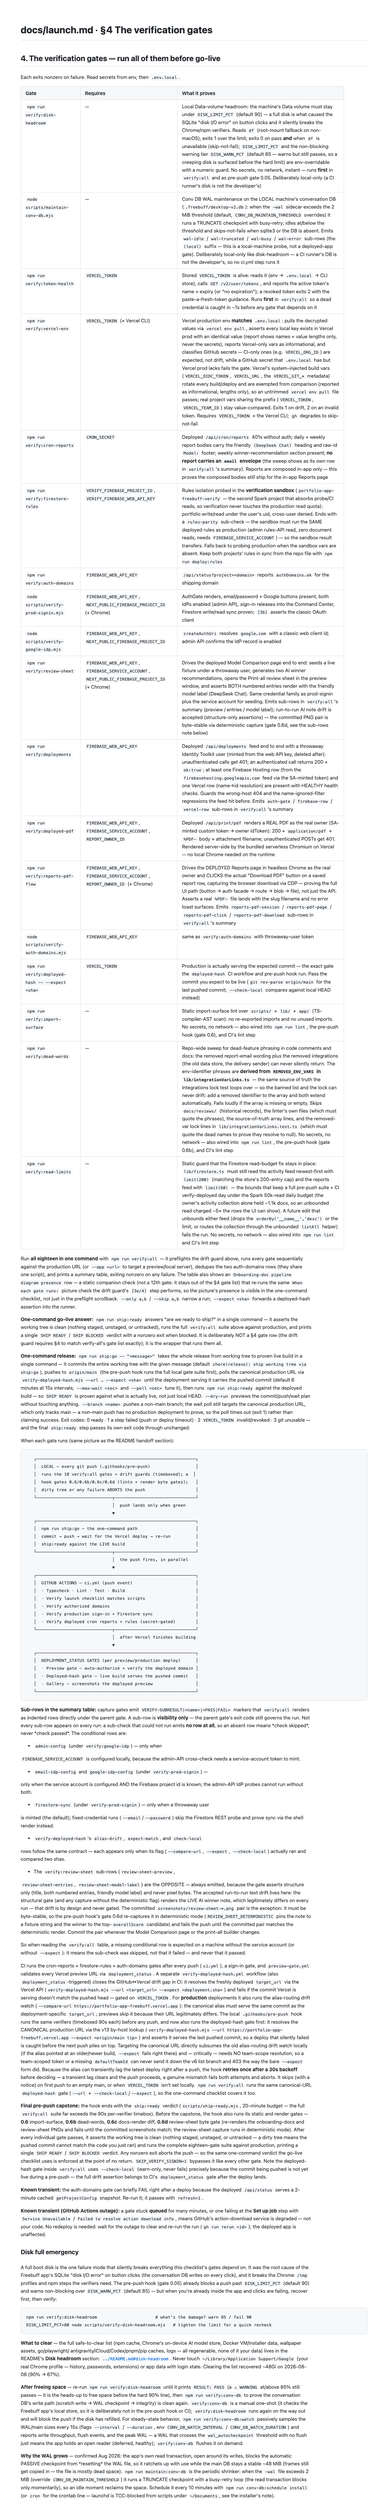
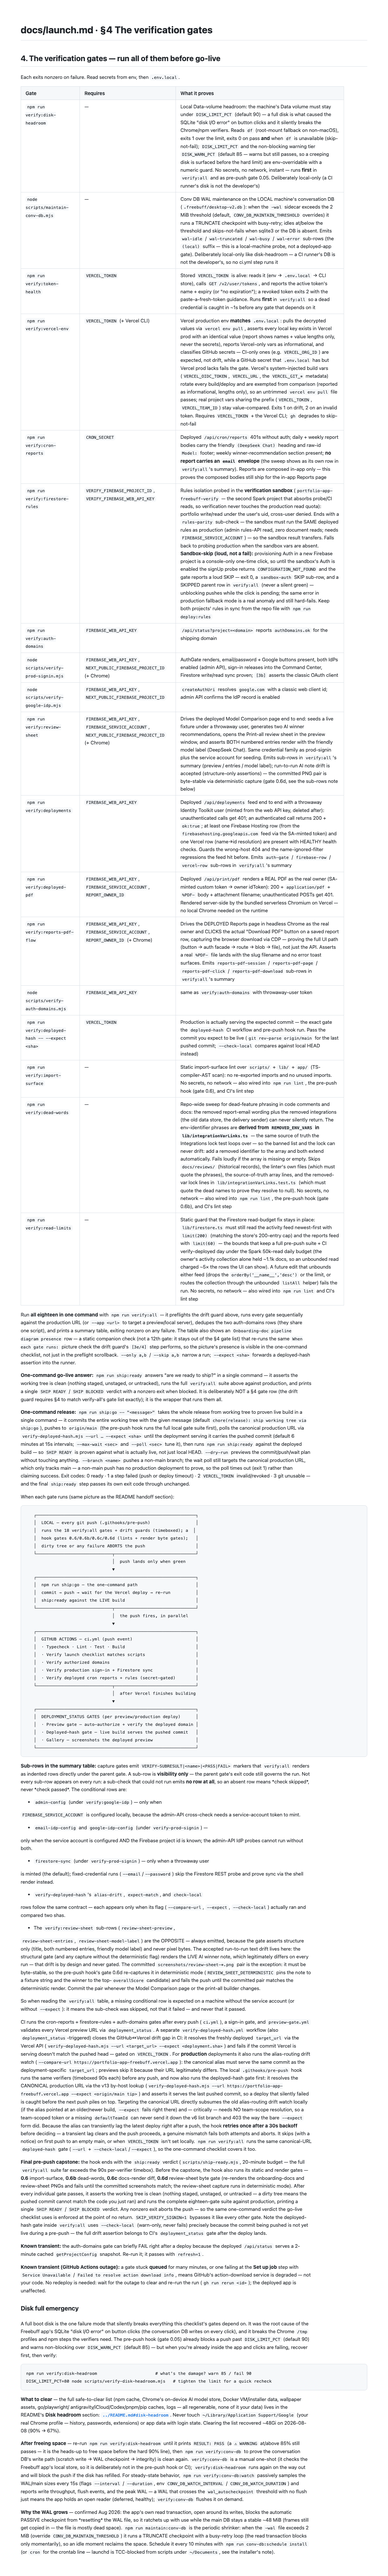
feat(verify): loud SKIP when the sandbox Auth is unprovisioned
verify-firestore-rules now reports a loud SKIP (exit 0, sandbox-auth
SKIP sub-marker, SKIPPED parent row in verify:all) when the sandbox
signUp probe returns CONFIGURATION_NOT_FOUND, since provisioning Auth
in a new Firebase project is a console-only one-time click that cannot
be scripted. The skip is gated on sandbox mode only — the same error
against production fallback still hard-fails. Extends the
VERIFY-SUBRESULT marker contract to accept SKIP, renders all-skipped
capture gates as SKIPPED (never a silent green), and locks the verdict
with a fetch-stubbed contract test asserting exit 0, zero Firestore
document calls on the skip path, and the production hard-fail.

Generated with Codebuff 🤖

diff --git a/scripts/verify-firestore-rules.test.ts b/scripts/verify-firestore-rules.test.ts
@@ -1,0 +1,102 @@
+import { spawnSync } from 'node:child_process';
+import { mkdtempSync, readFileSync, rmSync, writeFileSync } from 'node:fs';
+import { tmpdir } from 'node:os';
+import { join } from 'node:path';
+import { describe, expect, it } from 'vitest';
+
+// ── verify-firestore-rules · sandbox-auth SKIP verdict ──────────────────────
+// Provisioning Auth in a brand-new Firebase project is a console-only step
+// (the first click can't be scripted), so until that click lands the sandbox
+// signUp probe returns CONFIGURATION_NOT_FOUND. The gate must then report a
+// LOUD SKIP — exit 0, a SKIPPED parent row in verify:all, and a sandbox-auth
+// SKIP sub-marker — so an unprovisioned sandbox can never block every push
+// NOR masquerade as a green check. These tests spawn the real script with a
+// fetch stub (loaded via `node --import`, so it patches globalThis.fetch
+// before the gate's top-level await runs) and lock the verdict end to end:
+// the skip path exits 0, prints the loud SKIP lines, emits the marker, makes
+// zero Firestore document calls, and production-fallback mode STILL hard-fails
+// on the same error (production Auth is provisioned — an absence there is a
+// genuine regression).
+
+// The stub: answers every Identity Toolkit signUp with the sandbox's
+// unprovisioned error and records every URL it saw to FETCH_STUB_LOG, so the
+// tests can assert the skip path never touches Firestore documents. Anything
+// else the gate tries on the skip path is unexpected → 500 (the test would
+// fail loudly rather than silently pass).
+const STUB = `
+import { appendFileSync } from 'node:fs';
+const log = process.env.FETCH_STUB_LOG;
+globalThis.fetch = async (url) => {
+  const u = String(url);
+  if (log) { try { appendFileSync(log, u + '\\n'); } catch {} }
+  if (u.includes('identitytoolkit.googleapis.com/v1/accounts:signUp')) {
+    return { ok: false, status: 400, json: async () => ({ error: { code: 400, message: 'CONFIGURATION_NOT_FOUND' } }) };
+  }
+  return { ok: false, status: 500, json: async () => ({ error: { message: 'UNEXPECTED_FETCH' } }) };
+};
+`;
+
+const runGate = (overrides: Record<string, string>, opts?: { isolatedCwd?: boolean }) => {
+  const dir = mkdtempSync(join(tmpdir(), 'rules-skip-'));
+  const stub = join(dir, 'fetch-stub.mjs');
+  const log = join(dir, 'urls.log');
+  writeFileSync(stub, STUB);
+  // Start from the real env but guarantee sandbox mode is decided by the
+  // test's overrides alone — a dev shell exporting VERIFY_FIREBASE_* must not
+  // flip test 3 (production fallback) by accident.
+  const env = { ...process.env, FETCH_STUB_LOG: log };
+  delete env.VERIFY_FIREBASE_PROJECT_ID;
+  delete env.VERIFY_FIREBASE_WEB_API_KEY;
+  // isolatedCwd runs the gate from a temp dir with no .env.local, so the
+  // production-fallback test really is production mode (readLocalEnv resolves
+  // .env.local from cwd) rather than silently inheriting the real sandbox
+  // vars from the repo's .env.local.
+  const cwd = opts?.isolatedCwd ? dir : process.cwd();
+  const res = spawnSync('node', ['--import', stub, join(process.cwd(), 'scripts', 'verify-firestore-rules.mjs')], {
+    cwd,
+    env: { ...env, ...overrides },
+    encoding: 'utf8',
+    timeout: 60_000,
+  });
+  const urls = readFileSync(log, 'utf8').split('\n').filter(Boolean);
+  rmSync(dir, { recursive: true, force: true });
+  return { status: res.status, out: `${res.stdout ?? ''}\n${res.stderr ?? ''}`, urls };
+};
+
+const SANDBOX_VARS = {
+  VERIFY_FIREBASE_PROJECT_ID: 'portfolio-app-freebuff-verify',
+  VERIFY_FIREBASE_WEB_API_KEY: 'fake-key-for-test',
+};
+
+describe('verify-firestore-rules · sandbox-auth SKIP verdict', () => {
+  it('reports a loud SKIP and exits 0 when the sandbox Auth is unprovisioned (CONFIGURATION_NOT_FOUND)', () => {
+    const { status, out } = runGate(SANDBOX_VARS);
+    expect(status).toBe(0);
+    expect(out).toContain('✗ SKIP: sandbox Auth not provisioned (CONFIGURATION_NOT_FOUND)');
+    expect(out).toContain('production read quota untouched');
+    expect(out).toContain('VERIFY-SUBRESULT|sandbox-auth|SKIP');
+    expect(out).toContain('RESULT: SKIP');
+  });
+
+  it('makes zero Firestore document calls on the skip path (only the signUp probe)', () => {
+    const { urls } = runGate(SANDBOX_VARS);
+    expect(urls.length).toBeGreaterThan(0);
+    for (const u of urls) {
+      expect(u).not.toContain('firestore.googleapis.com/v1/projects/');
+    }
+    expect(urls.every((u) => u.includes('identitytoolkit.googleapis.com/v1/accounts:signUp'))).toBe(true);
+  });
+
+  it('still hard-fails on CONFIGURATION_NOT_FOUND in production fallback mode (a real anomaly, not a skip)', () => {
+    // Production fallback from an isolated cwd (no .env.local to inherit the
+    // sandbox vars from) with explicit production credentials: the same
+    // CONFIGURATION_NOT_FOUND error there is NOT a skip — production Auth is
+    // provisioned, so an absence is a genuine regression that must block.
+    const { status, out } = runGate({
+      NEXT_PUBLIC_FIREBASE_PROJECT_ID: 'portfolio-app-freebuff2',
+      FIREBASE_WEB_API_KEY: 'fake-prod-key',
+    }, { isolatedCwd: true });
+    expect(status).toBe(1);
+    expect(out).toContain('could not mint a test user');
+  });
+});

diff --git a/scripts/verify-all.test.ts b/scripts/verify-all.test.ts
@@ -62,6 +62,13 @@ describe('parseSubResultMarkers · valid markers', () => {
       { name: 'deployed-hash/check-local', label: '  ↳ Local HEAD matches deployed (deployed)', pass: true },
     ]);
   });
+
+  it('parses a SKIP verdict as pass:"skip" — a loud skip, never a pass', () => {
+    const rows = parseSubResultMarkers('VERIFY-SUBRESULT|sandbox-auth|SKIP\n', 'firestore-rules');
+    expect(rows).toEqual([
+      { name: 'firestore-rules/sandbox-auth', label: '  ↳ Sandbox Auth provisioning (console click pending) (deployed)', pass: 'skip' },
+    ]);
+  });
 });
 
 describe('parseSubResultMarkers · unknown marker names', () => {
@@ -82,7 +89,7 @@ describe('parseSubResultMarkers · malformed lines are rejected', () => {
       'VERIFY-SUBRESULT',                    // no segments
       'VERIFY-SUBRESULT|auth-gate',          // missing verdict
       'VERIFY-SUBRESULT|auth-gate|PASS|extra', // extra segment
-      'VERIFY-SUBRESULT|auth-gate|maybe',    // non-PASS/FAIL verdict
+      'VERIFY-SUBRESULT|auth-gate|maybe',    // non-PASS/FAIL/SKIP verdict (SKIP is the only third verdict)
       'verify-subresult|auth-gate|PASS',     // wrong case prefix
       ' VERIFY-SUBRESULT|auth-gate|PASS',    // leading space
       'prefix VERIFY-SUBRESULT|auth-gate|PASS', // embedded
@@ -135,6 +142,28 @@ describe('verify-all.mjs · conv-db gate (local) suffix contract', () => {
     expect(parseSubResultMarkers('VERIFY-SUBRESULT|wal-idle|PASS\n', 'conv-db', undefined, '(local)')).toEqual([
       { name: 'conv-db/wal-idle', label: '  ↳ Conv DB WAL at/below threshold (idle) (local)', pass: true },
     ]);
+  });
+});
+
+// ── verify-all.mjs · loud-SKIP verdict rendering ────────────────────────────
+// A capture gate that runs but reports every sub-check as SKIP (e.g.
+// verify-firestore-rules while the sandbox Auth is unprovisioned) must render
+// as a SKIPPED parent row — never a silent green pass — and the summary's
+// status/column logic must treat the 'skip' verdict as SKIPPED, not PASS
+// (the 'skip' string is truthy, so the plain `r.pass ? 'PASS'` branch would
+// otherwise mislabel it). These source locks hold the chain together.
+
+describe('verify-all.mjs · loud-SKIP verdict rendering', () => {
+  const src = readFileSync(join(process.cwd(), 'scripts', 'verify-all.mjs'), 'utf8');
+
+  it('overrides a capture gate whose sub-markers are ALL SKIP to a skipped parent row (loud skip, never a pass)', () => {
+    expect(src).toMatch(/const allSkipped = subs\.length > 0 && subs\.every\(\(s\) => s\.pass === 'skip'\)/);
+    expect(src).toMatch(/pass: allSkipped && pass \? 'skip' : pass/);
+  });
+
+  it('renders the skip verdict as SKIPPED in the summary status column (before the truthy PASS branch)', () => {
+    expect(src).toMatch(/r\.pass === 'skip' \? 'SKIPPED'/);
+    expect(src).toMatch(/r\.pass === 'skip' \|\| r\.sub/);
   });
 });
 

diff --git a/docs/launch.md b/docs/launch.md
@@ -78,7 +78,7 @@ Each exits nonzero on failure. Read secrets from env, then `.env.local`.
 | `npm run verify:token-health` | `VERCEL_TOKEN` | Stored `VERCEL_TOKEN` is alive: reads it (env → `.env.local` → CLI store), calls `GET /v2/user/tokens`, and reports the active token's name + expiry (or "no expiration"); a revoked token exits 2 with the paste-a-fresh-token guidance. Runs **first** in `verify:all` so a dead credential is caught in ~1s before any gate that depends on it |
 | `npm run verify:vercel-env` | `VERCEL_TOKEN` (+ Vercel CLI) | Vercel production env **matches** `.env.local`: pulls the decrypted values via `vercel env pull`, asserts every local key exists in Vercel prod with an identical value (report shows names + value lengths only, never the secrets), reports Vercel-only vars as informational, and classifies GitHub secrets — CI-only ones (e.g. `VERCEL_ORG_ID`) are expected, not drift, while a GitHub secret that `.env.local` has but Vercel prod lacks fails the gate. Vercel's system-injected build vars (`VERCEL_OIDC_TOKEN`, `VERCEL_URL`, the `VERCEL_GIT_*` metadata) rotate every build/deploy and are exempted from comparison (reported as informational, lengths only), so an untrimmed `vercel env pull` file passes; real project vars sharing the prefix (`VERCEL_TOKEN`, `VERCEL_TEAM_ID`) stay value-compared. Exits 1 on drift, 2 on an invalid token. Requires `VERCEL_TOKEN` + the Vercel CLI; `gh` degrades to skip-not-fail |
 | `npm run verify:cron-reports` | `CRON_SECRET` | Deployed `/api/cron/reports` 401s without auth; daily + weekly report bodies carry the friendly `(DeepSeek Chat)` heading and raw-id `Model:` footer; weekly winner-recommendation section present; **no report carries an `email` envelope** (the sweep shows as its own row in `verify:all`'s summary). Reports are composed in-app only — this proves the composed bodies still ship for the in-app Reports page |
-| `npm run verify:firestore-rules` | `VERIFY_FIREBASE_PROJECT_ID`, `VERIFY_FIREBASE_WEB_API_KEY` | Rules isolation probed in the **verification sandbox** (`portfolio-app-freebuff-verify` — the second Spark project that absorbs probe/CI reads, so verification never touches the production read quota): portfolio write/read under the user's uid, cross-user denied. Ends with a `rules-parity` sub-check — the sandbox must run the SAME deployed rules as production (admin rules-API read, zero document reads; needs `FIREBASE_SERVICE_ACCOUNT`) — so the sandbox result transfers. Falls back to probing production when the sandbox vars are absent. Keep both projects' rules in sync from the repo file with `npm run deploy:rules` |
+| `npm run verify:firestore-rules` | `VERIFY_FIREBASE_PROJECT_ID`, `VERIFY_FIREBASE_WEB_API_KEY` | Rules isolation probed in the **verification sandbox** (`portfolio-app-freebuff-verify` — the second Spark project that absorbs probe/CI reads, so verification never touches the production read quota): portfolio write/read under the user's uid, cross-user denied. Ends with a `rules-parity` sub-check — the sandbox must run the SAME deployed rules as production (admin rules-API read, zero document reads; needs `FIREBASE_SERVICE_ACCOUNT`) — so the sandbox result transfers. Falls back to probing production when the sandbox vars are absent. **Sandbox-skip (loud, not a fail):** provisioning Auth in a new Firebase project is a console-only one-time click, so until the sandbox's Auth is enabled the signUp probe returns `CONFIGURATION_NOT_FOUND` and the gate reports a loud SKIP — exit 0, a `sandbox-auth` SKIP sub-row, and a SKIPPED parent row in `verify:all` (never a silent green) — unblocking pushes while the click is pending; the same error in production fallback mode is a real anomaly and still hard-fails. Keep both projects' rules in sync from the repo file with `npm run deploy:rules` |
 | `npm run verify:auth-domains` | `FIREBASE_WEB_API_KEY` | `/api/status?project=<domain>` reports `authDomains.ok` for the shipping domain |
 | `node scripts/verify-prod-signin.mjs` | `FIREBASE_WEB_API_KEY`, `NEXT_PUBLIC_FIREBASE_PROJECT_ID` (+ Chrome) | AuthGate renders, email/password + Google buttons present, both IdPs enabled (admin API), sign-in releases into the Command Center, Firestore write/read sync proven; `[3b]` asserts the classic OAuth client |
 | `node scripts/verify-google-idp.mjs` | `FIREBASE_WEB_API_KEY`, `NEXT_PUBLIC_FIREBASE_PROJECT_ID` | `createAuthUri` resolves `google.com` with a classic web client id; admin API confirms the IdP record is enabled |

diff --git a/README.md b/README.md
@@ -108,7 +108,7 @@ reads its secrets from env, then `.env.local`:
 | token-health | `VERCEL_TOKEN` | the stored Vercel token is alive (name + expiry) |
 | vercel-env | `VERCEL_TOKEN` (+ Vercel CLI) | Vercel prod env matches `.env.local` (Vercel's system-injected build vars like `VERCEL_OIDC_TOKEN` rotate every deploy and are exempted as informational; real project vars like `VERCEL_TOKEN`/`VERCEL_TEAM_ID` stay value-compared) |
 | cron-reports | `CRON_SECRET` | deployed cron 401s without auth; daily/weekly report bodies carry the friendly model heading + raw-id footer; no report send envelope |
-| firestore-rules | `VERIFY_FIREBASE_PROJECT_ID`, `VERIFY_FIREBASE_WEB_API_KEY` | rules isolation probed in the verification sandbox (a second Spark project, zero production reads) + a sandbox↔production rules-parity sub-check so the result transfers |
+| firestore-rules | `VERIFY_FIREBASE_PROJECT_ID`, `VERIFY_FIREBASE_WEB_API_KEY` | rules isolation probed in the verification sandbox (a second Spark project, zero production reads) + a sandbox↔production rules-parity sub-check so the result transfers; loud SKIP (exit 0, `sandbox-auth` sub-row, SKIPPED parent row) while the sandbox Auth is unprovisioned, so the batch can ship before the one-time console click |
 | auth-domains | `FIREBASE_WEB_API_KEY` | shipping domain is in the Firebase authorized list |
 | prod-signin | `FIREBASE_WEB_API_KEY`, `NEXT_PUBLIC_FIREBASE_PROJECT_ID` (+ Chrome) | real sign-in releases into the app and Firestore syncs |
 | google-idp | `FIREBASE_WEB_API_KEY`, `NEXT_PUBLIC_FIREBASE_PROJECT_ID` | Google IdP record enabled with a classic web client |
@@ -644,7 +644,7 @@ packaged smoke tests run against the deployed URL after each push to `main`
 | Script | What it proves | Required GitHub secret |
 | --- | --- | --- |
 | `npm run verify:cron-reports` | Deployed `/api/cron/reports` 401s without auth; daily + weekly report bodies carry the friendly `(DeepSeek Chat)` heading and the raw-id `Model:` footer | `CRON_SECRET` |
-| `npm run verify:firestore-rules` | Merged rules on the shared project: portfolio write/read under the user's uid, cross-user denied, meal-planner owner grants + stranger denials (mints + deletes a throwaway user) | `FIREBASE_WEB_API_KEY` |
+| `npm run verify:firestore-rules` | Probes rules isolation in the **verification sandbox** (`portfolio-app-freebuff-verify` — zero production reads): portfolio write/read under the user's uid, cross-user denied, plus a sandbox↔production rules-parity sub-check. Loud SKIP (exit 0) until the sandbox Auth is provisioned (one-time console click) | `VERIFY_FIREBASE_PROJECT_ID`, `VERIFY_FIREBASE_WEB_API_KEY` |
 | `npm run verify:auth-domains` | Deployed `/api/status?project=<domain>` reports `authDomains.ok` for the shipping domain (defaults to the production URL; pass `--domain <preview-url>` to validate a preview before it ships) | `FIREBASE_WEB_API_KEY` |
 
 Set `CRON_SECRET` and `FIREBASE_WEB_API_KEY` in **GitHub → Settings → Secrets
